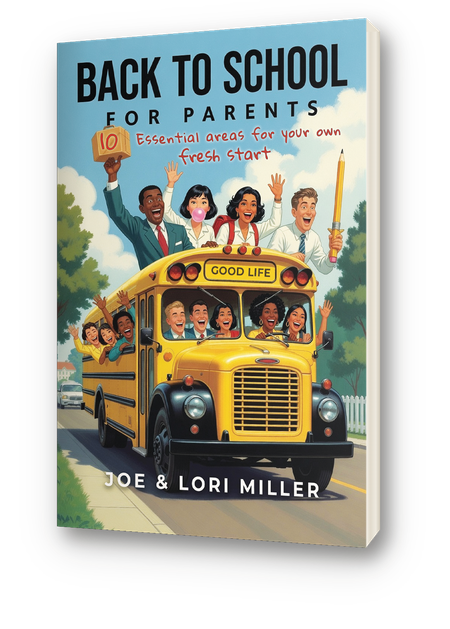
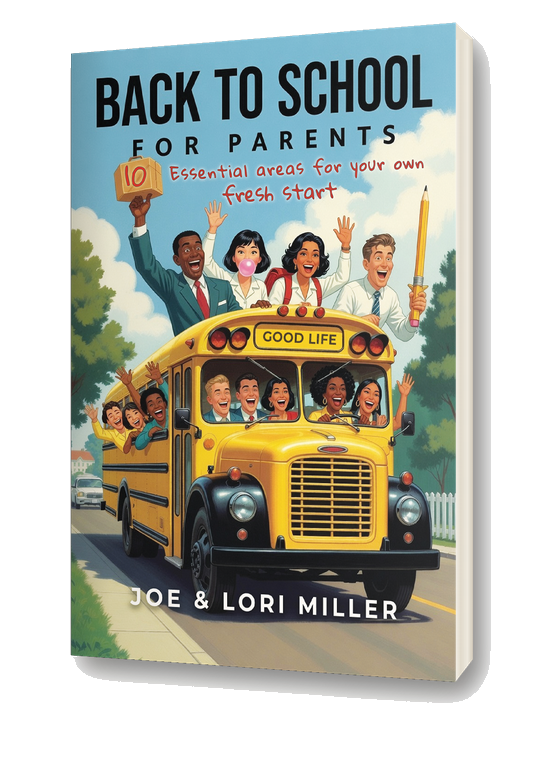
Results: bigger stacked cover upsell + clean transparent PNG

diff --git a/result.html b/result.html
@@ -50,19 +50,22 @@
   .wheel-svg-wrap{width:100%;max-width:420px;margin:0 auto;}
   .wheel-svg-wrap svg{width:100%;height:auto;display:block;}
 
-  .book-case{background:var(--forest);color:var(--cream);border-radius:14px;padding:26px 22px;margin-top:34px;}
-  .book-case-grid{display:grid;grid-template-columns:110px 1fr;gap:18px;align-items:center;}
-  .book-cover{width:110px;max-width:30vw;height:auto;display:block;filter:drop-shadow(0 12px 24px rgba(0,0,0,.40));}
-  .book-case h3{font-size:20px;margin:0 0 8px;color:var(--cream);line-height:1.2;}
-  .book-case p{font-size:15px;margin:0 0 10px;opacity:.92;line-height:1.45;}
+  .book-case{background:var(--forest);color:var(--cream);border-radius:14px;padding:28px 24px;margin-top:34px;}
+  .book-case-grid{display:grid;grid-template-columns:190px 1fr;gap:24px;align-items:center;}
+  .book-cover{width:190px;height:auto;display:block;filter:drop-shadow(0 16px 28px rgba(0,0,0,.45));background:transparent;}
+  .book-case h3{font-size:28px;margin:0 0 10px;color:var(--cream);line-height:1.15;letter-spacing:-.01em;}
+  .book-case p{font-size:15px;margin:0 0 12px;opacity:.92;line-height:1.45;}
   .book-case .btn{background:var(--gold);color:var(--ink);margin-top:4px;}
   .book-case .btn:hover{background:var(--gold-soft);}
-  @media(max-width:520px){
-    .book-case-grid{grid-template-columns:90px 1fr;gap:14px;text-align:left;}
-    .book-cover{width:90px;}
-    .book-case h3{font-size:18px;}
-    .book-case p{font-size:14.5px;}
+  @media(max-width:560px){
+    .book-case{padding:24px 18px;}
+    .book-case-grid{grid-template-columns:1fr;gap:16px;justify-items:center;text-align:center;}
+    .book-cover{width:min(220px,58vw);}
+    .book-case h3{font-size:26px;}
+    .book-case p{font-size:15px;text-align:left;}
+    .book-case .btn{width:100%;text-align:center;box-sizing:border-box;}
   }
+
 
   .email-gate{background:var(--cream-card);border:2px dashed var(--line);border-radius:14px;
     padding:26px 24px;margin-top:22px;text-align:center;}
@@ -105,11 +108,11 @@
 
     <div class="book-case">
       <div class="book-case-grid">
-        <img class="book-cover" src="cover-transparent.png" width="110" height="154" alt="Back to School for Parents book cover">
-        <div>
+        <img class="book-cover" src="cover-transparent.png" width="190" height="266" alt="Back to School for Parents book cover">
+        <div class="book-case-copy">
           <h3>This is fixable</h3>
           <p id="nextStepCopy"></p>
-          <p><b>Back to School for Parents</b> is the answer for this leak — and the map for the other nine areas, with a private baseline and the 30-Day Reset.</p>
+          <p><b>Back to School for Parents: 10 Essential Areas For Your Own Fresh Start</b> is the answer for this leak — and the map for the other nine areas, with a private baseline and a 30-Day Reset.</p>
           <a class="btn" href="https://millermhs.com/press/back-to-school-for-parents/" target="_blank" rel="noopener">Get the book</a>
         </div>
       </div>
